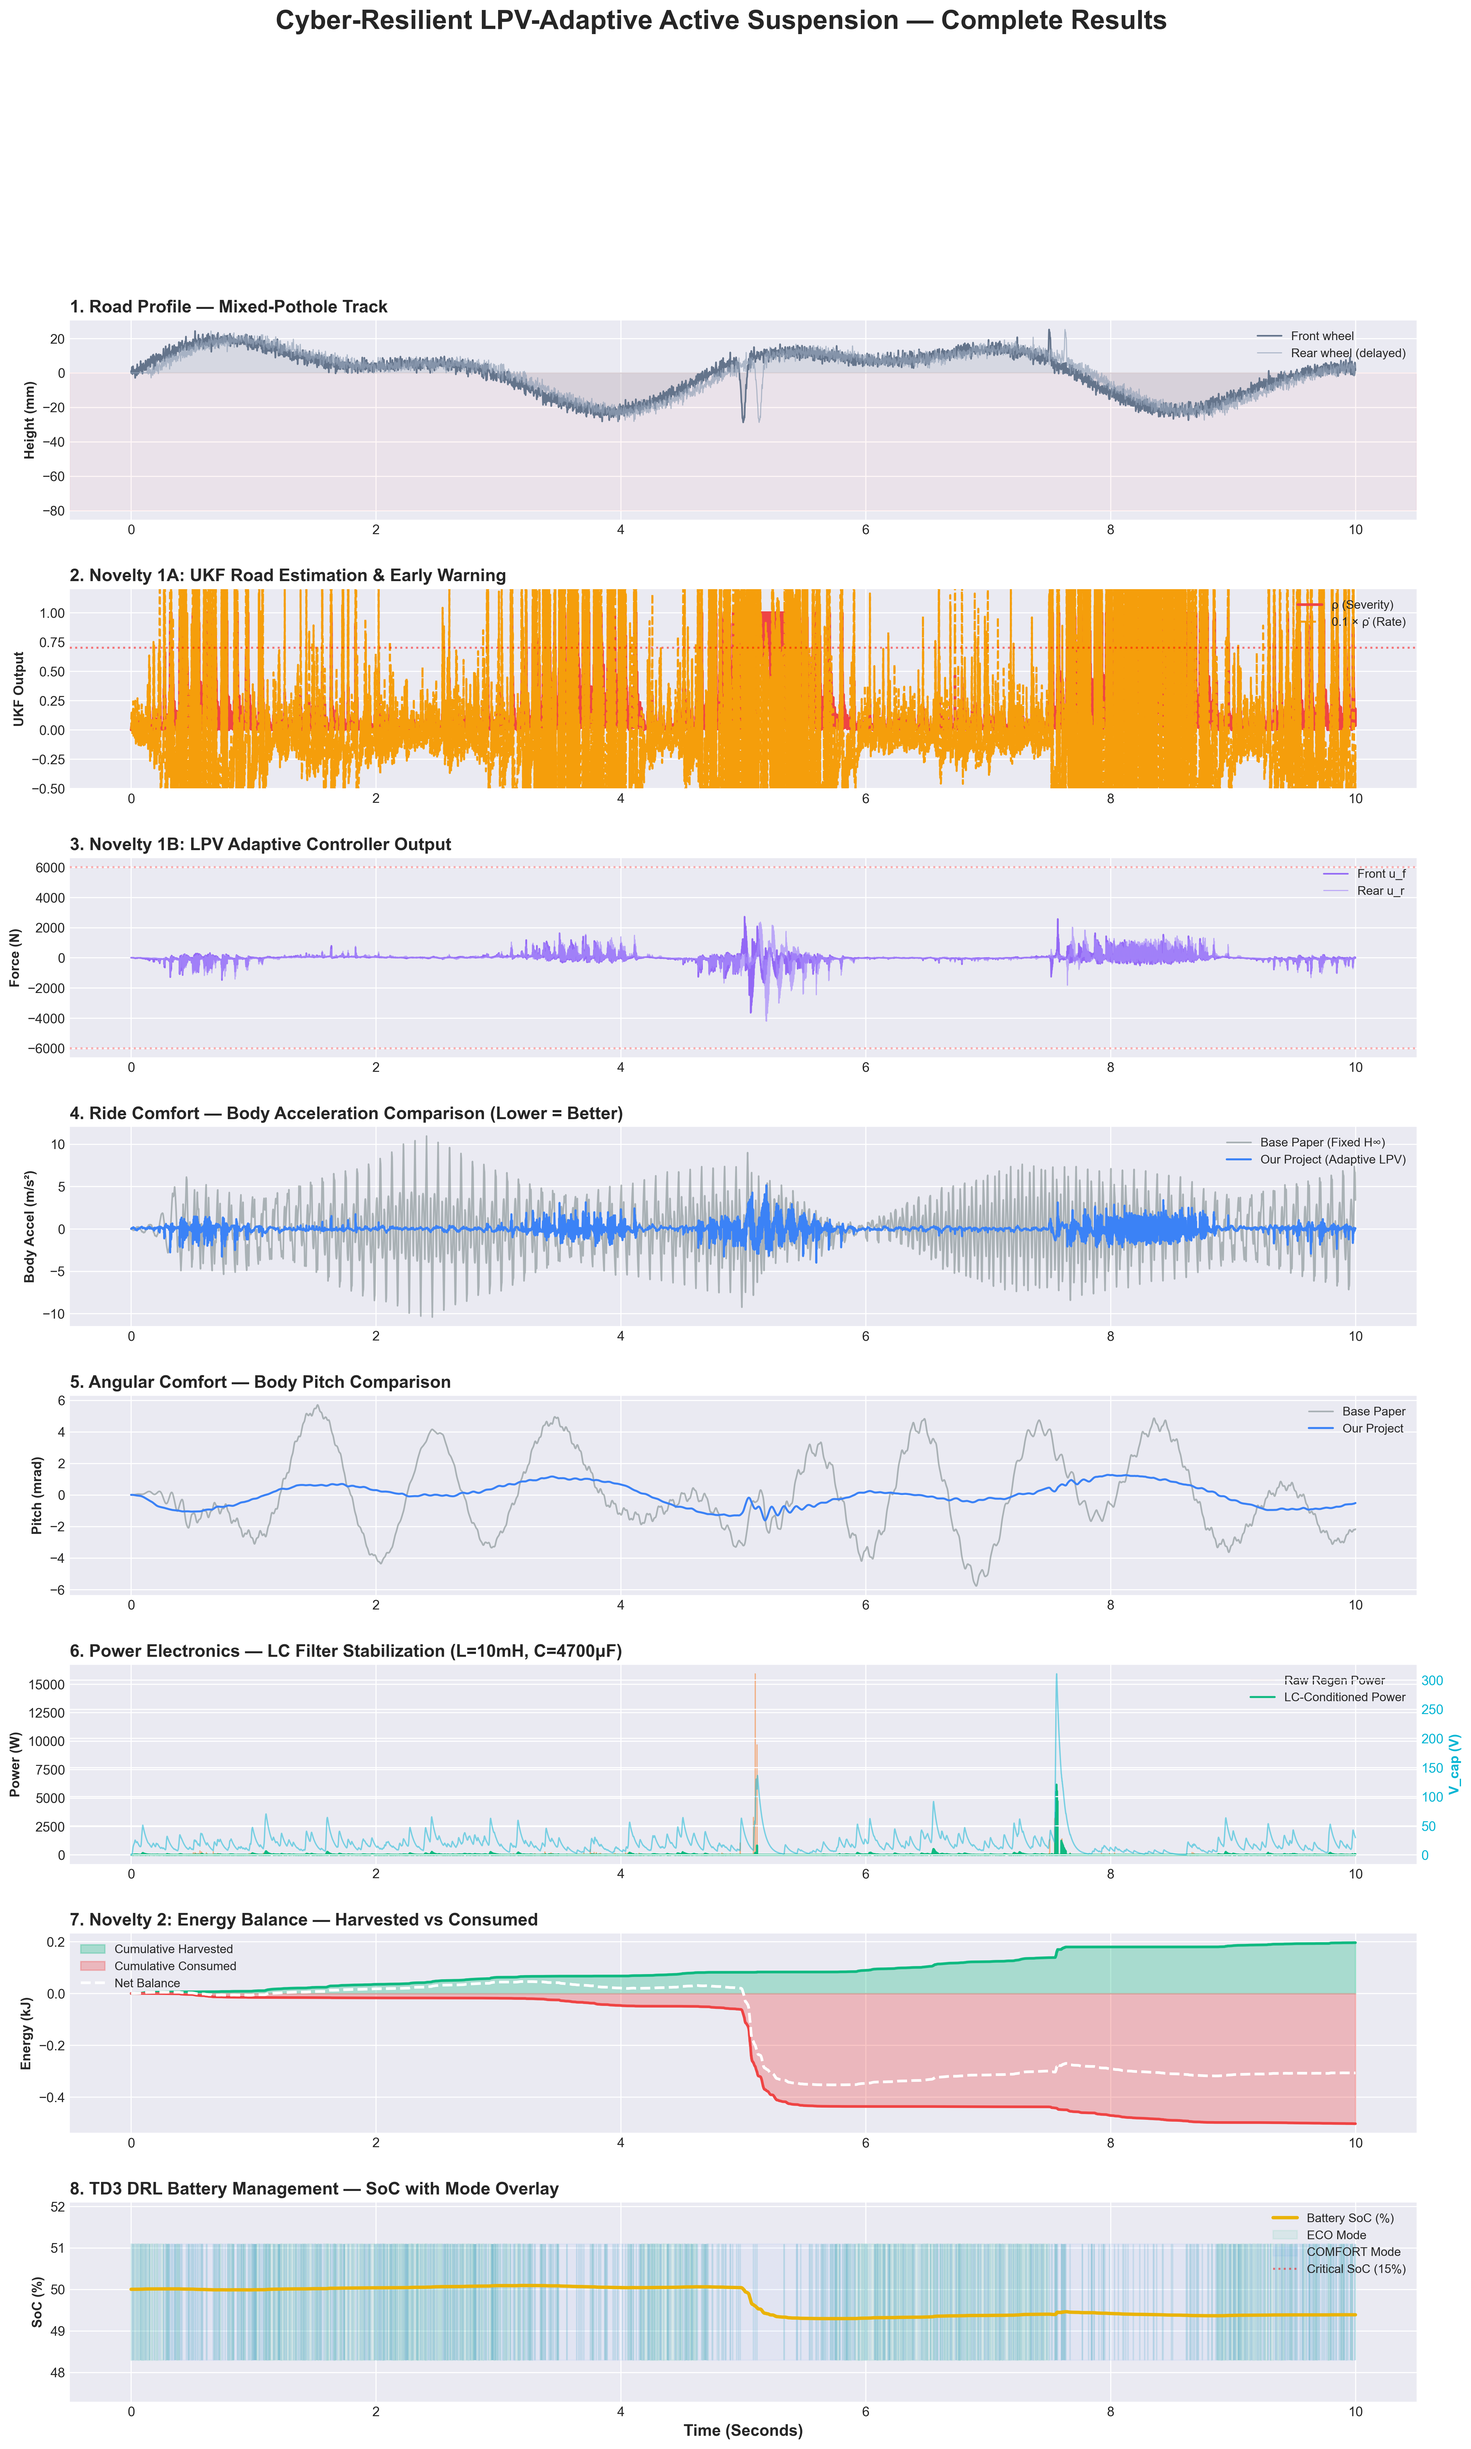
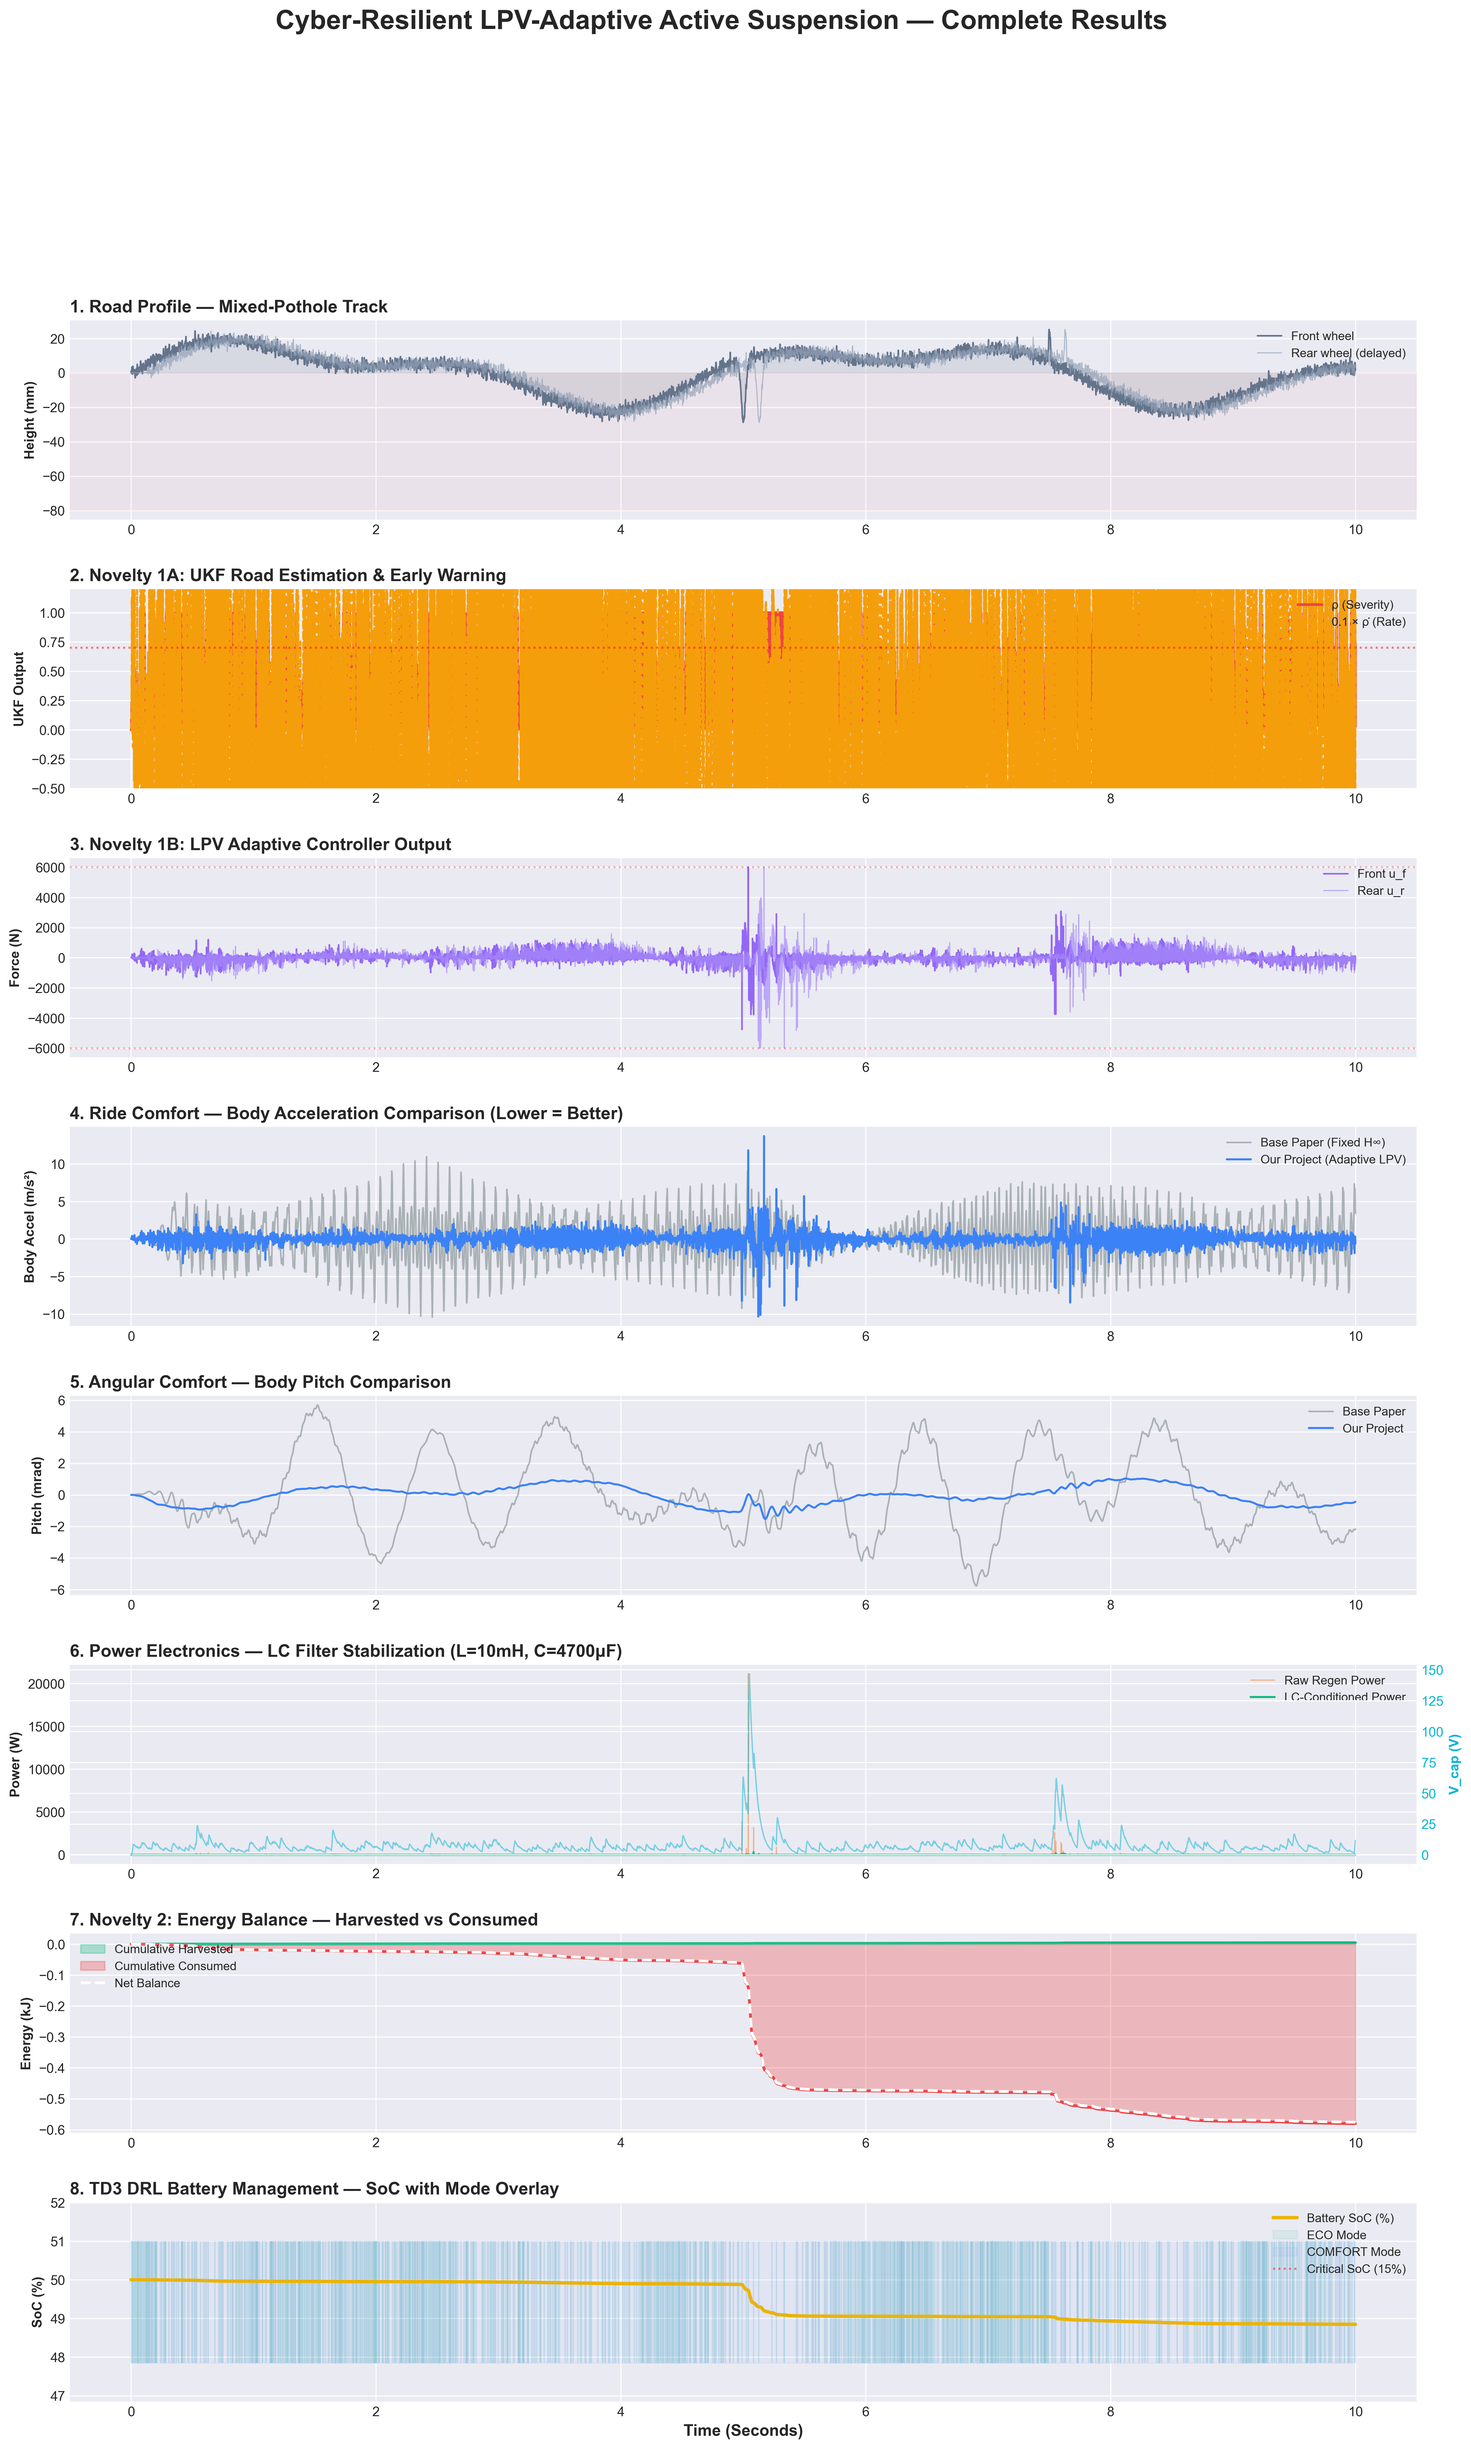
fix: Correct skyhook physics bug and TD3 reward function logic in Python simulation

diff --git a/Simulation_Core/controllers/td3_environment.py b/Simulation_Core/controllers/td3_environment.py
@@ -86,7 +86,7 @@ class SuspensionEnv(gym.Env):
         z_uf_dot = self.state_vector[6]
         v_rel_f = z_sf_dot - z_uf_dot
         
-        force_eco = self.p.C_e * v_rel_f
+        force_eco = -self.p.C_e * v_rel_f
         force_comfort = -10000 * (self.state_vector[0] - self.p.a * self.state_vector[1] - self.state_vector[2]) # Simplified LPV
         
         u_f = (1.0 - action_val) * force_comfort + action_val * force_eco
@@ -101,8 +101,8 @@ class SuspensionEnv(gym.Env):
         # Calculate Energy Harvested (Power = Force * Velocity)
         # We only harvest energy when the actuator resists the suspension movement
         power_watts = 0.0
-        if action_val > 0.5 and (u_f * v_rel_f) > 0:
-            power_watts = u_f * v_rel_f * self.p.eta_regen
+        if action_val > 0.5:
+            power_watts = abs(u_f * v_rel_f) * self.p.eta_regen
             
         joules_harvested = power_watts * self.dt
         self.battery_soc += joules_harvested / self.battery_capacity_joules

diff --git a/Simulation_Core/controllers/lpv_controller.py b/Simulation_Core/controllers/lpv_controller.py
@@ -119,7 +119,7 @@ class LPVController:
         if mode_f == "ECO":
             # In ECO mode, we disable active pushing and only use regenerative damping
             # Must be negative to resist motion! (u_f is subtracted in the ODE)
-            u_f = -self.p.C_e * qc_state_f[1] # -C_e * (z_s_dot - z_u_dot)
+            u_f = -self.p.C_e * (qc_state_f[1] - qc_state_f[3]) # -C_e * (z_s_dot - z_u_dot)
         else:
             # Polytopic blending of gains based on rho
             K_f = (1.0 - rho_f) * self.K_smooth + rho_f * self.K_rough
@@ -139,7 +139,7 @@ class LPVController:
             
         # 2. REAR WHEEL
         if mode_r == "ECO":
-            u_r = -self.p.C_e * qc_state_r[1]
+            u_r = -self.p.C_e * (qc_state_r[1] - qc_state_r[3])
         else:
             K_r = (1.0 - rho_r) * self.K_smooth + rho_r * self.K_rough
             u_r_base = -np.dot(K_r, qc_state_r)
